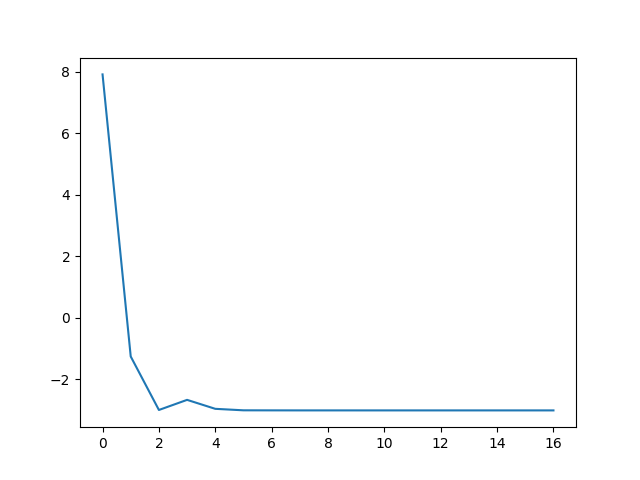
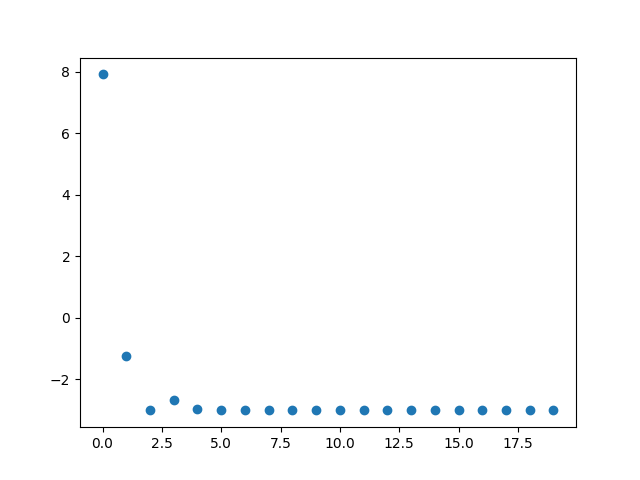
first commit

diff --git a/main.py b/main.py
@@ -6,16 +6,30 @@ from math import sin, cos
 import numpy as np
 
 
+def plot_func(f, lb, ub, filename):
+    x, y = [], []
+    for i in np.arange(lb, ub, 0.01):
+        x.append(i)
+        y.append(f(i))
+    plt.plot(x, y)
+    plt.xlabel('x')
+    plt.ylabel('y')
+    plt.savefig(f'python_code/result_plot/{filename}')
+    plt.clf()
+
+
 def Q1():
 
-    def f(x): return x**2 * sin(x) * cos(x)
+    def f(x): return (x**2 * sin(x) * cos(x))
 
+    plot_func(f=f, lb=2, ub=6, filename="Q1_function.png")
     result = oneDim.goldSearch(
         func=f,
         a=2,
         b=6,
-        tol=1e-4
+        tol=1e-5
     )
+    print(f'golden search: min_value={result["y"]}, min_point={result["X"]}')
     y_list = [f(x) for x in result['x_list']]
     plt.plot(range(len(y_list)), y_list)
     plt.savefig('python_code/result_plot/gold.png')
@@ -25,11 +39,14 @@ def Q1():
         func=f,
         a=2,
         b=6,
-        ep=1e-5,
-        tol=1e-4
+        ep=1e-6,
+        tol=1e-5
     )
     y_list = [f(x) for x in result['x_list']]
-    plt.plot(range(len(y_list)), y_list)
+    print(
+        f'Dichotomous search: min_value={result["y"]}, min_point={result["X"]}')
+    # plt.plot(range(len(y_list)), y_list)
+    plt.scatter(range(len(y_list)), y_list)
     plt.savefig('python_code/result_plot/Dichotomous.png')
     plt.clf()
 
@@ -41,15 +58,19 @@ def Q2():
 
     result = cyclic.cyclic(
         func=f,
+        init_X=[-1, 1],
         x_bound_list=[[-2, 2], [-2, 2]],
-        tol=1e-4
+        tol=1e-3
     )
+    print(
+        f'cyclic coordinate method: min_value={result["y"]}, min_point={result["X"]}')
     x, y = zip(*result['x_list'])
     plt.plot(x, y)
+    plt.xlabel('x')
+    plt.ylabel('y')
     plt.scatter(x, y, color='red')
     plt.savefig('python_code/result_plot/cyclic.png')
     plt.clf()
-    print(result['y'])
 
 
 def Q3():
@@ -59,16 +80,17 @@ def Q3():
 
     result = powell.powell(
         func=f,
-        X=np.array([1, 1]),
+        X=np.array([-1, -1]),
         min_b=-2,
         max_b=2,
-        tol=1e-4
+        tol=1e-5
     )
     x, y = zip(*result['x_list'])
+    print(
+        f'powell\'s method: min_value={result["y"]}, min_point={result["X"]}')
     plt.plot(x, y)
     # plt.scatter(x, y, color='red')
     plt.savefig('python_code/result_plot/powell.png')
-    print(result['y'])
 
 
 def main():

diff --git a/_powell_method.py b/_powell_method.py
@@ -38,8 +38,8 @@ def powell(func, X, min_b, max_b, tol):
                 func=func,
                 d=d[:, i],
                 cur_pos=cur_pos,
-                min_b=min_b,
-                max_b=max_b,
+                min_b=min_b - cur_pos[0],
+                max_b=max_b - cur_pos[1],
                 tol=tol
             )
             lmb = result['X']
@@ -49,14 +49,15 @@ def powell(func, X, min_b, max_b, tol):
         for i in range(dim - 1):
             d[:, i] = d[:, i + 1]
         d[:, dim - 1] = cur_pos - X
+        d[:, dim - 1] = d[:, dim - 1] / np.linalg.norm(d[:, dim - 1], ord=2)
 
         new_x = X
         result = goldSearch(
             func=func,
             d=d[:, dim - 1],
             cur_pos=cur_pos,
-            min_b=min_b,
-            max_b=max_b,
+            min_b=min_b - cur_pos[0],
+            max_b=max_b - cur_pos[1],
             tol=tol
         )
         lmb = result['X']

diff --git a/_cyclic.py b/_cyclic.py
@@ -1,6 +1,6 @@
 import copy
 import matplotlib as plt
-
+import random
 
 def E_dist(v1, v2):
     return sum([(x1 - x2)**2 for x1, x2 in zip(v1, v2)])**0.5
@@ -38,10 +38,10 @@ def goldSearch(func, a, b, tol):
     return min_y, min_x
 
 
-def cyclic(func, x_bound_list, tol):
-    min_x = []
-    for lb, rb in x_bound_list:
-        min_x.append((lb + rb) / 2 + 1)
+def cyclic(func, init_X, x_bound_list, tol):
+    min_x = init_X
+    # for lb, rb in x_bound_list:
+    #     min_x.append((lb + rb) / 2 + 1)
 
     min_x_list = [min_x]
     while True:
